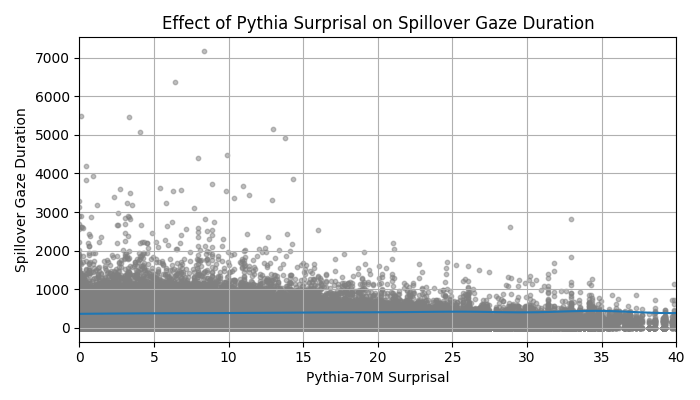
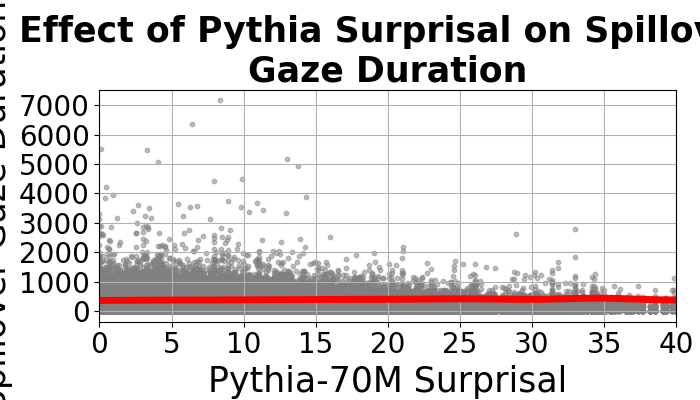
updated results

diff --git a/GAM/task_2.py b/GAM/task_2.py
@@ -2,6 +2,8 @@ import pandas as pd
 import numpy as np
 from pygam import LinearGAM, s
 import matplotlib.pyplot as plt
+import textwrap
+
 
 # Load data
 # INPUT_DATA_PATH = "pre_processing_data/merged_surprisal_dwell_kenlm_pythia.csv"
@@ -64,13 +66,19 @@ for label, y_col in reading_measures.items():
     # Plot
     XX = gam.generate_X_grid(term=0)
     plt.figure(figsize=(7, 4))
-    plt.plot(XX[:, 0], gam.predict(XX))
-    plt.title(f"Effect of Pythia Surprisal on {label}")
-    plt.xlabel("Pythia-70M Surprisal")
-    plt.ylabel(label)
+    plt.plot(XX[:, 0], gam.predict(XX), color='red', linewidth=5)
+    title_text = f"Effect of Pythia Surprisal on {label}"
+    wrapped_title = textwrap.fill(title_text, width=40)
+    plt.title(wrapped_title, fontsize=25, fontweight='bold')
+    # plt.title(f"Effect of Pythia Surprisal on {label}", fontsize=25, fontweight='bold')
+    plt.xlabel("Pythia-70M Surprisal", fontsize=25)
+    plt.ylabel(label, fontsize=25)
     plt.xlim(0, 40)
     plt.grid(True)
     plt.tight_layout()
+
+    plt.xticks(fontsize=20)
+    plt.yticks(fontsize=20)
     # plt.show(block=False)  # Show the plot without blocking the script
     # plt.pause(1)  # Pause to allow the plot to render
 
